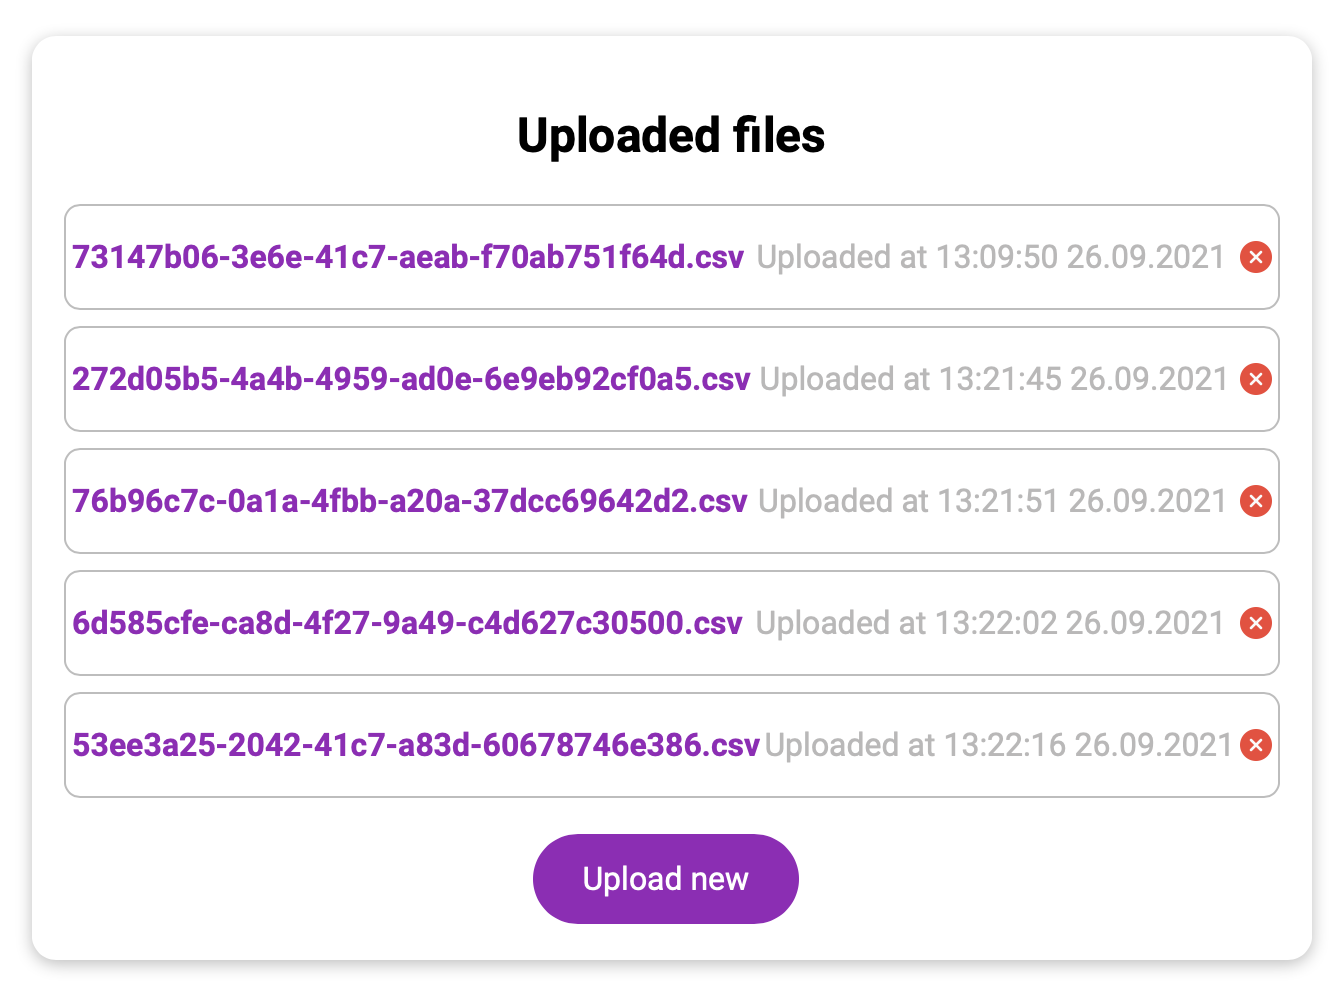
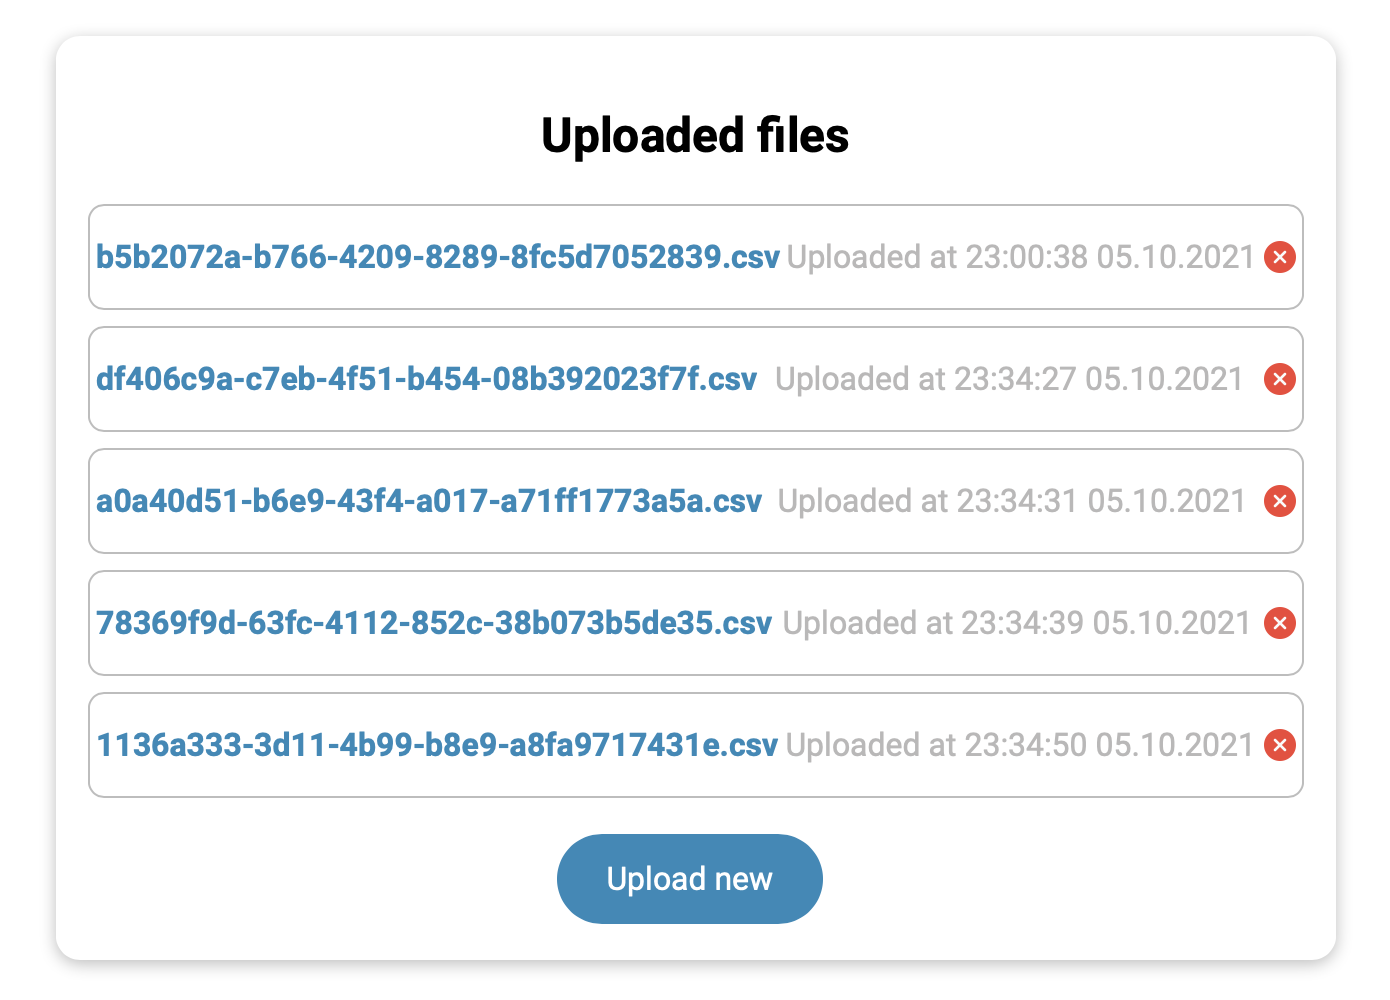
Add Figma wireframe (and finally done all weblabs)

Changed region(s): [[0.0306, 0.0934, 1.0, 0.9649], [0.3672, 0.0934, 0.6119, 0.1556]]

diff --git a/README.md b/README.md
@@ -8,6 +8,8 @@
 
 [Результаты нагрузочного тестирования](LOADTEST.md)
 
+[Макет пользовательского приложения в Figma](https://www.figma.com/file/NnUDdhQ0q2RxURzjjXmPvT/remrratality)
+
 ## Roadmap
 
 |Задача|Статус|
